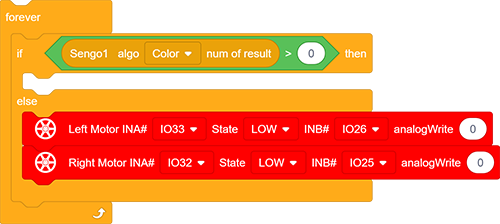
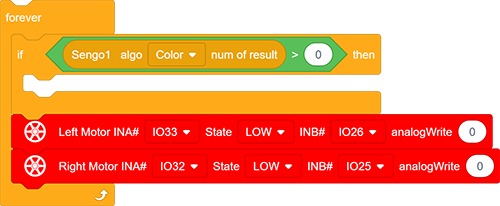
UPDATE V02

diff --git a/docs/KidsBlockTutorial/5.6 Red and Blue Sorting Car.md b/docs/KidsBlockTutorial/5.6 Red and Blue Sorting Car.md
@@ -67,7 +67,7 @@ If you want to build the code blocks by yourself, please load the functions of K
 
 ![65](./media/65.png)
 
-2. The if block determines the number of detections. Only when the number of detections is greater than 0 will the color block data be output. Note to choose `Color`. In the “else” part, put the code blocks to control the car to stop.
+2. The if block determines the number of detections. Only when the number of detections is greater than 0 will the color block data be output. Note to choose `Color`.Add code for stopping the car under the 'if' code block
 
 ![69](./media/69.png)
 
